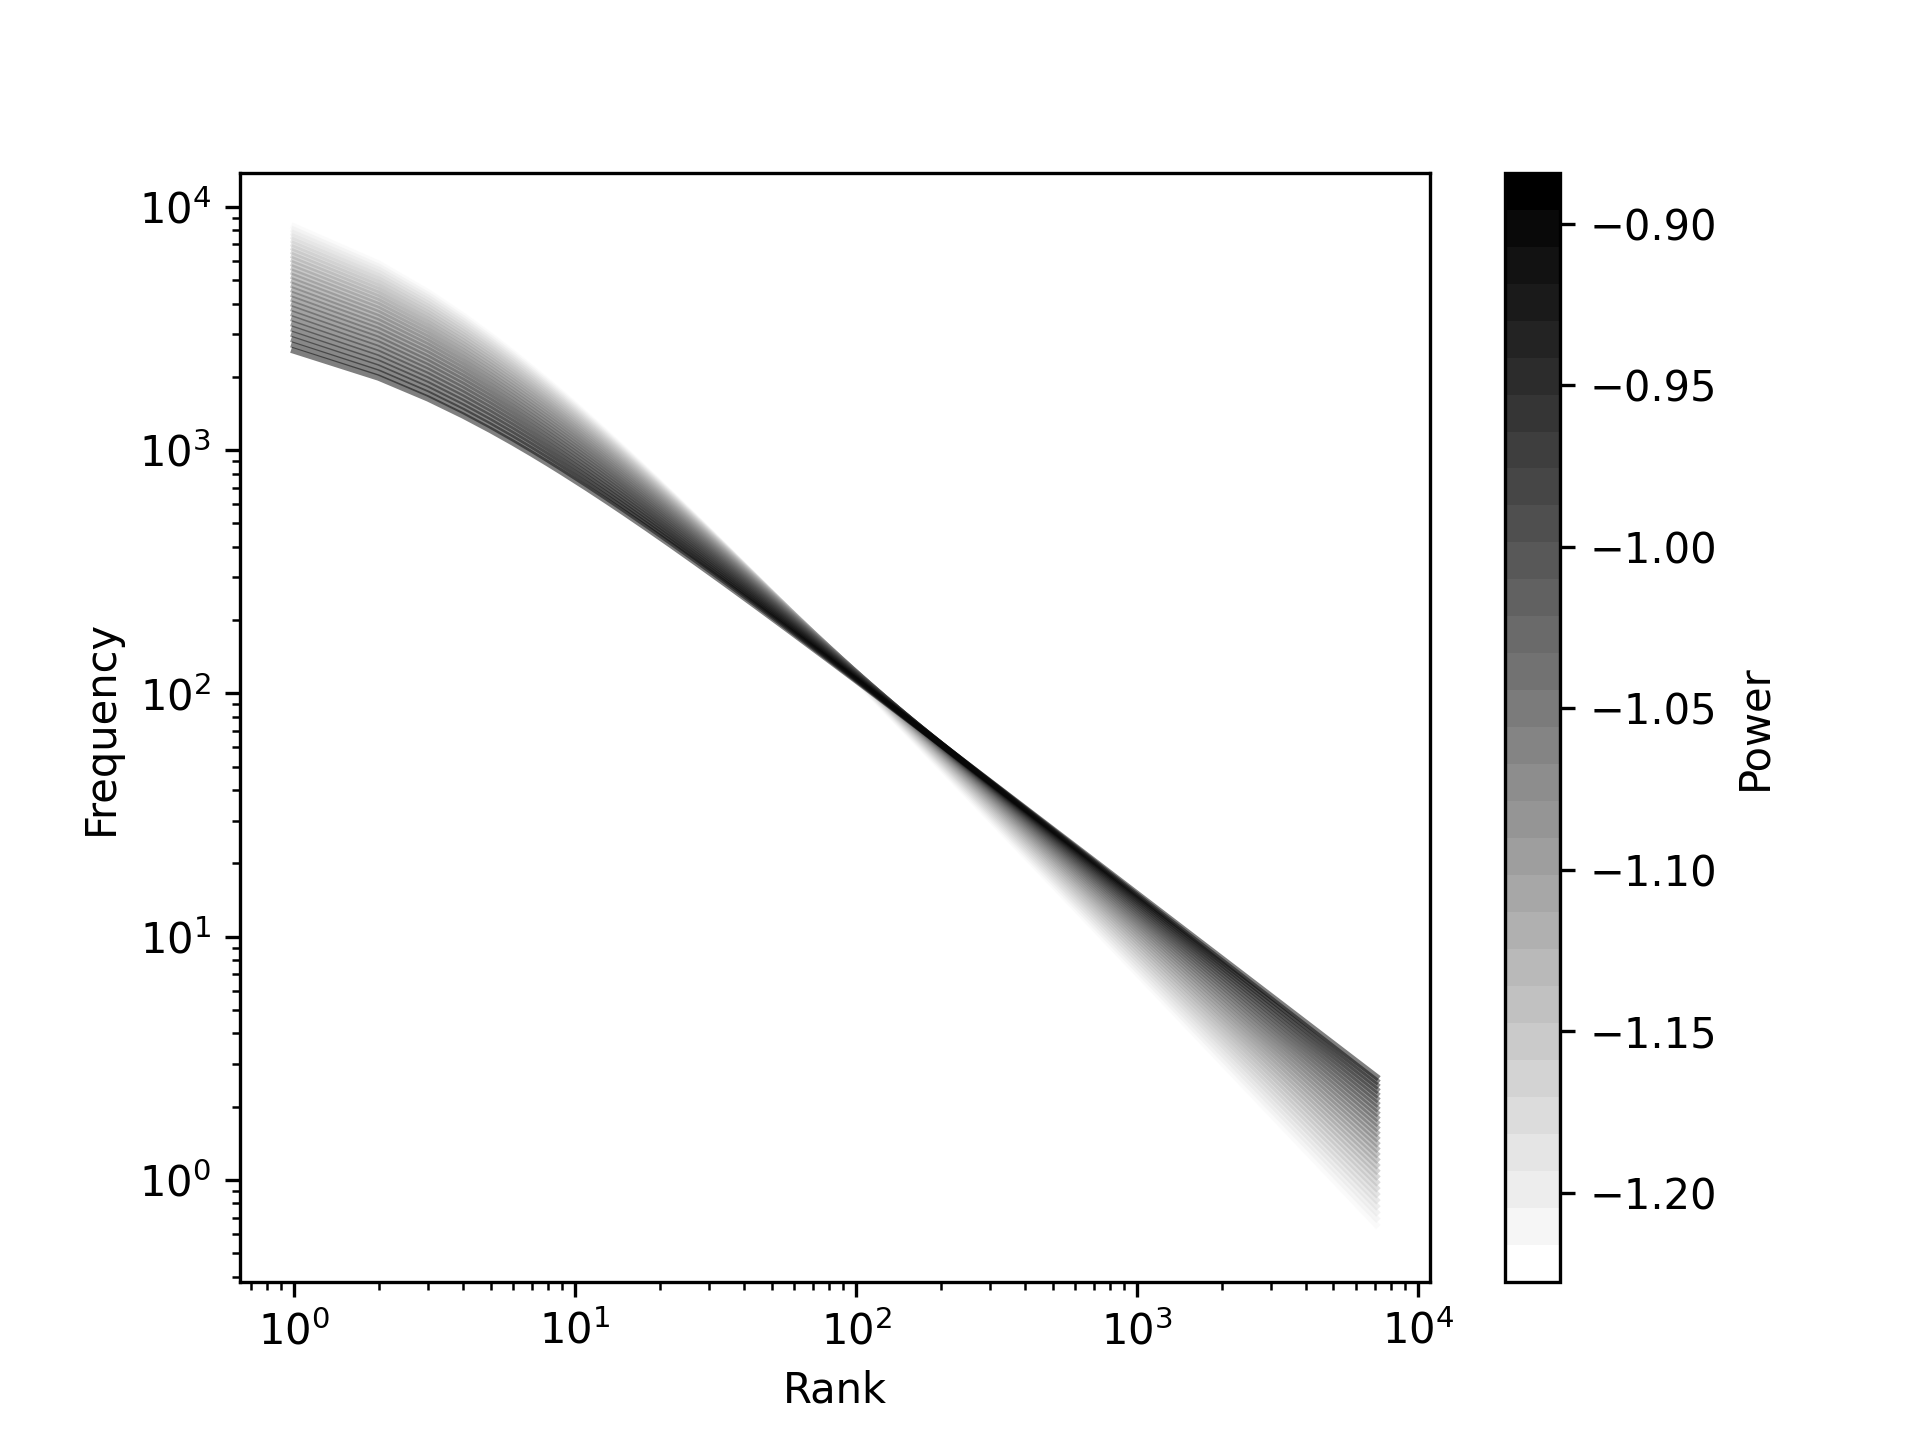
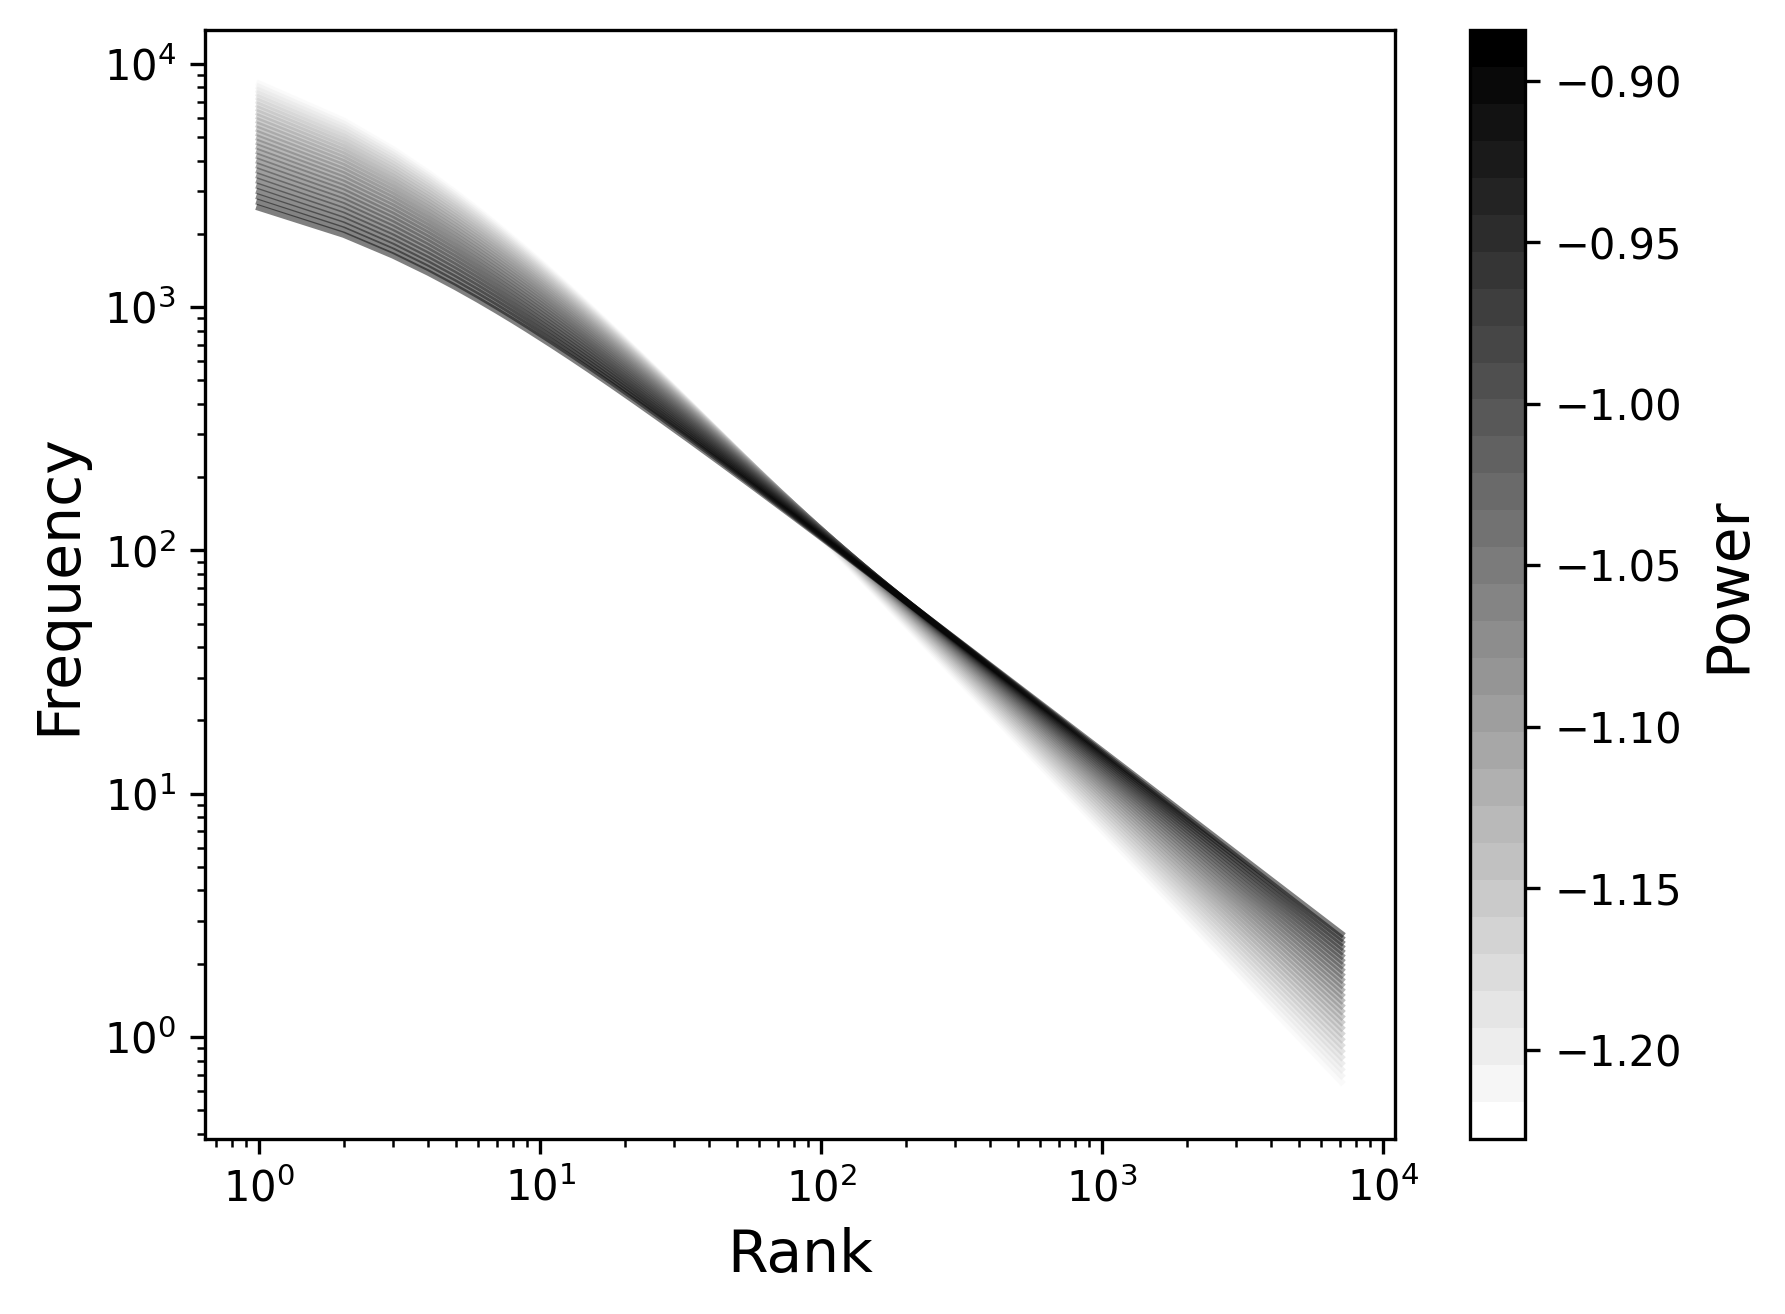
fine tune figures

diff --git a/src/artificial_corpora_interpolate.py b/src/artificial_corpora_interpolate.py
@@ -89,25 +89,28 @@ for i, tested_variety in enumerate(tested_varieties):
     variety_ax.plot(ranks, predicted_freq, color=color_map(i), alpha=0.5)
     
 # Update and save plots 
-plt.colorbar(cm.ScalarMappable(Normalize(np.min(tested_slopes), 
+slope_cb = plt.colorbar(cm.ScalarMappable(Normalize(np.min(tested_slopes), 
                                          np.max(tested_slopes)), 
                                cmap=color_map), ax=slope_ax, label="Power")
-plt.colorbar(cm.ScalarMappable(Normalize(np.min(tested_shifts), 
+shift_cb = plt.colorbar(cm.ScalarMappable(Normalize(np.min(tested_shifts), 
                                          np.max(tested_shifts)), 
                                cmap=color_map), ax=shift_ax, label="Shift")
-plt.colorbar(cm.ScalarMappable(Normalize(np.min(tested_varieties), 
+variety_cb = plt.colorbar(cm.ScalarMappable(Normalize(np.min(tested_varieties), 
                                          np.max(tested_varieties)), 
                                cmap=color_map), ax=variety_ax, label="Variety")
-real_ax.set_xlabel("Rank")
-real_ax.set_ylabel("Frequency")
-esti_ax.set_xlabel("Rank")
-esti_ax.set_ylabel("Frequency")
-slope_ax.set_xlabel("Rank")
-slope_ax.set_ylabel("Frequency")
-shift_ax.set_xlabel("Rank")
-shift_ax.set_ylabel("Frequency")
-variety_ax.set_xlabel("Rank")
-variety_ax.set_ylabel("Frequency")
+slope_cb.set_label("Power", fontsize=14)
+shift_cb.set_label("Shift", fontsize=14)
+variety_cb.set_label("Variety", fontsize=14)
+real_ax.set_xlabel("Rank", fontsize=14)
+real_ax.set_ylabel("Frequency", fontsize=14)
+esti_ax.set_xlabel("Rank", fontsize=14)
+esti_ax.set_ylabel("Frequency", fontsize=14)
+slope_ax.set_xlabel("Rank", fontsize=14)
+slope_ax.set_ylabel("Frequency", fontsize=14)
+shift_ax.set_xlabel("Rank", fontsize=14)
+shift_ax.set_ylabel("Frequency", fontsize=14)
+variety_ax.set_xlabel("Rank", fontsize=14)
+variety_ax.set_ylabel("Frequency", fontsize=14)
 real_ax.set_xscale("log")
 real_ax.set_yscale("log")
 esti_ax.set_xscale("log")
@@ -118,8 +121,13 @@ shift_ax.set_xscale("log")
 shift_ax.set_yscale("log")
 variety_ax.set_xscale("log")
 variety_ax.set_yscale("log")
-real_fig.savefig(f"{output_folder_path}/real_distrib.png", dpi=300)
-esti_fig.savefig(f"{output_folder_path}/interpolated_distrib.png", dpi=300)
-slope_fig.savefig(f"{output_folder_path}/slope_distrib.png", dpi=300)
-shift_fig.savefig(f"{output_folder_path}/shift_distrib.png", dpi=300)
-variety_fig.savefig(f"{output_folder_path}/variety_distrib.png", dpi=300)
+real_fig.savefig(f"{output_folder_path}/real_distrib.png", dpi=300, 
+                 bbox_inches='tight')
+esti_fig.savefig(f"{output_folder_path}/interpolated_distrib.png", dpi=300, 
+                 bbox_inches='tight')
+slope_fig.savefig(f"{output_folder_path}/slope_distrib.png", dpi=300, 
+                  bbox_inches='tight')
+shift_fig.savefig(f"{output_folder_path}/shift_distrib.png", dpi=300, 
+                  bbox_inches='tight')
+variety_fig.savefig(f"{output_folder_path}/variety_distrib.png", dpi=300, 
+                    bbox_inches='tight')
